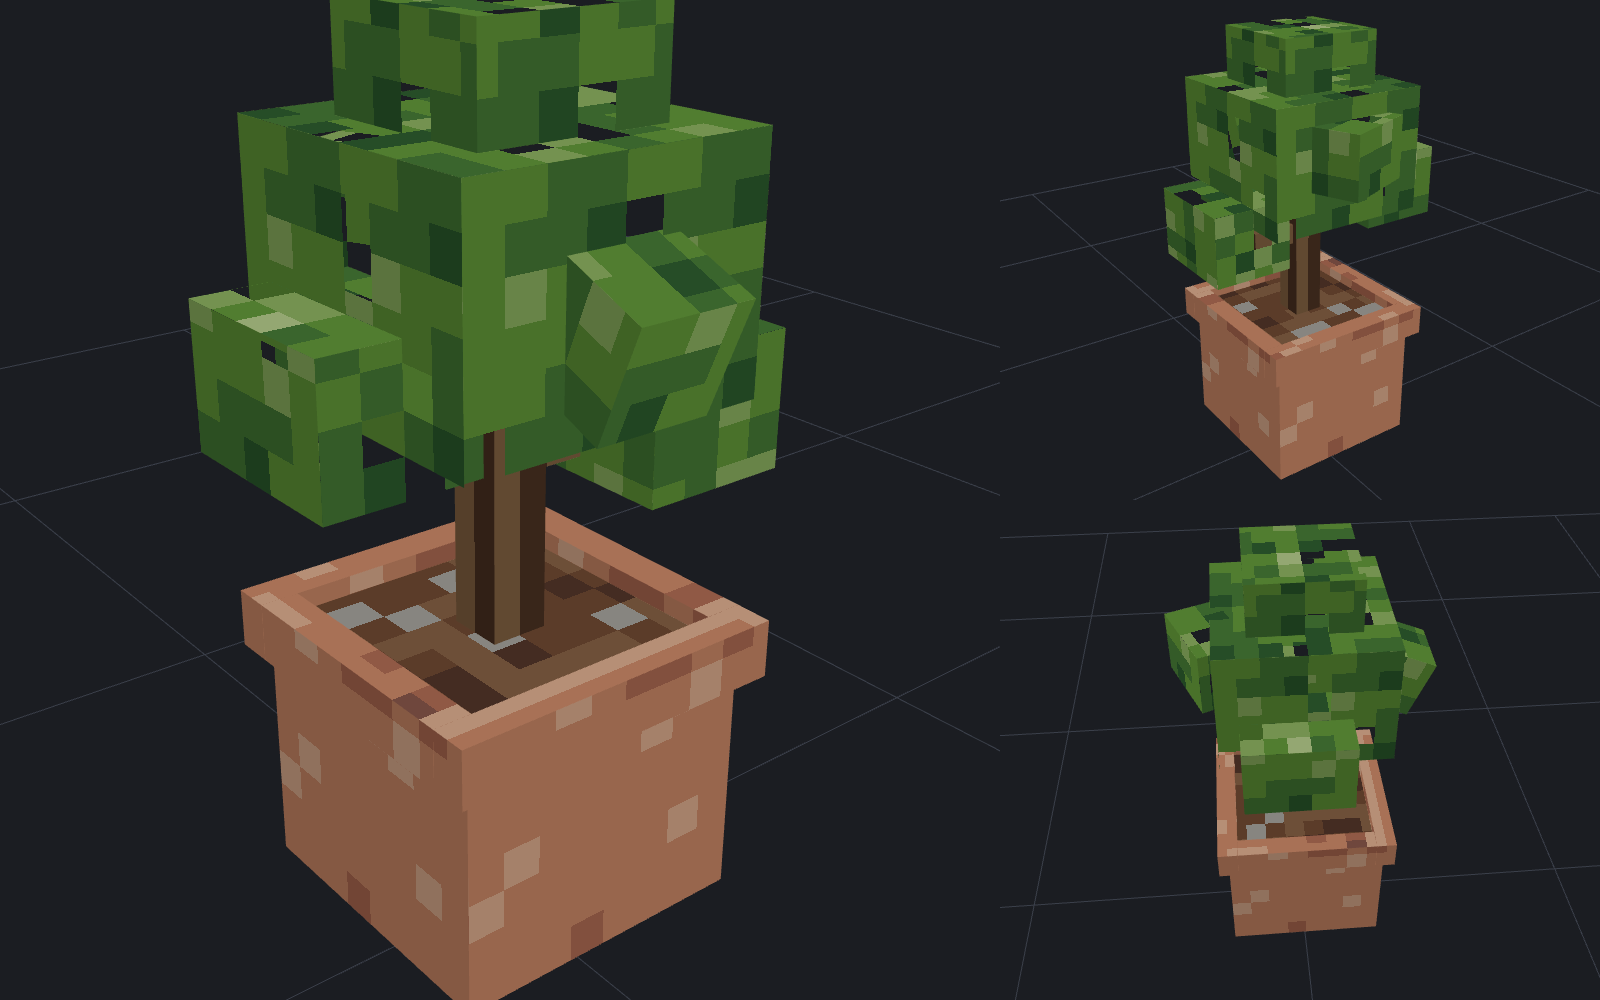
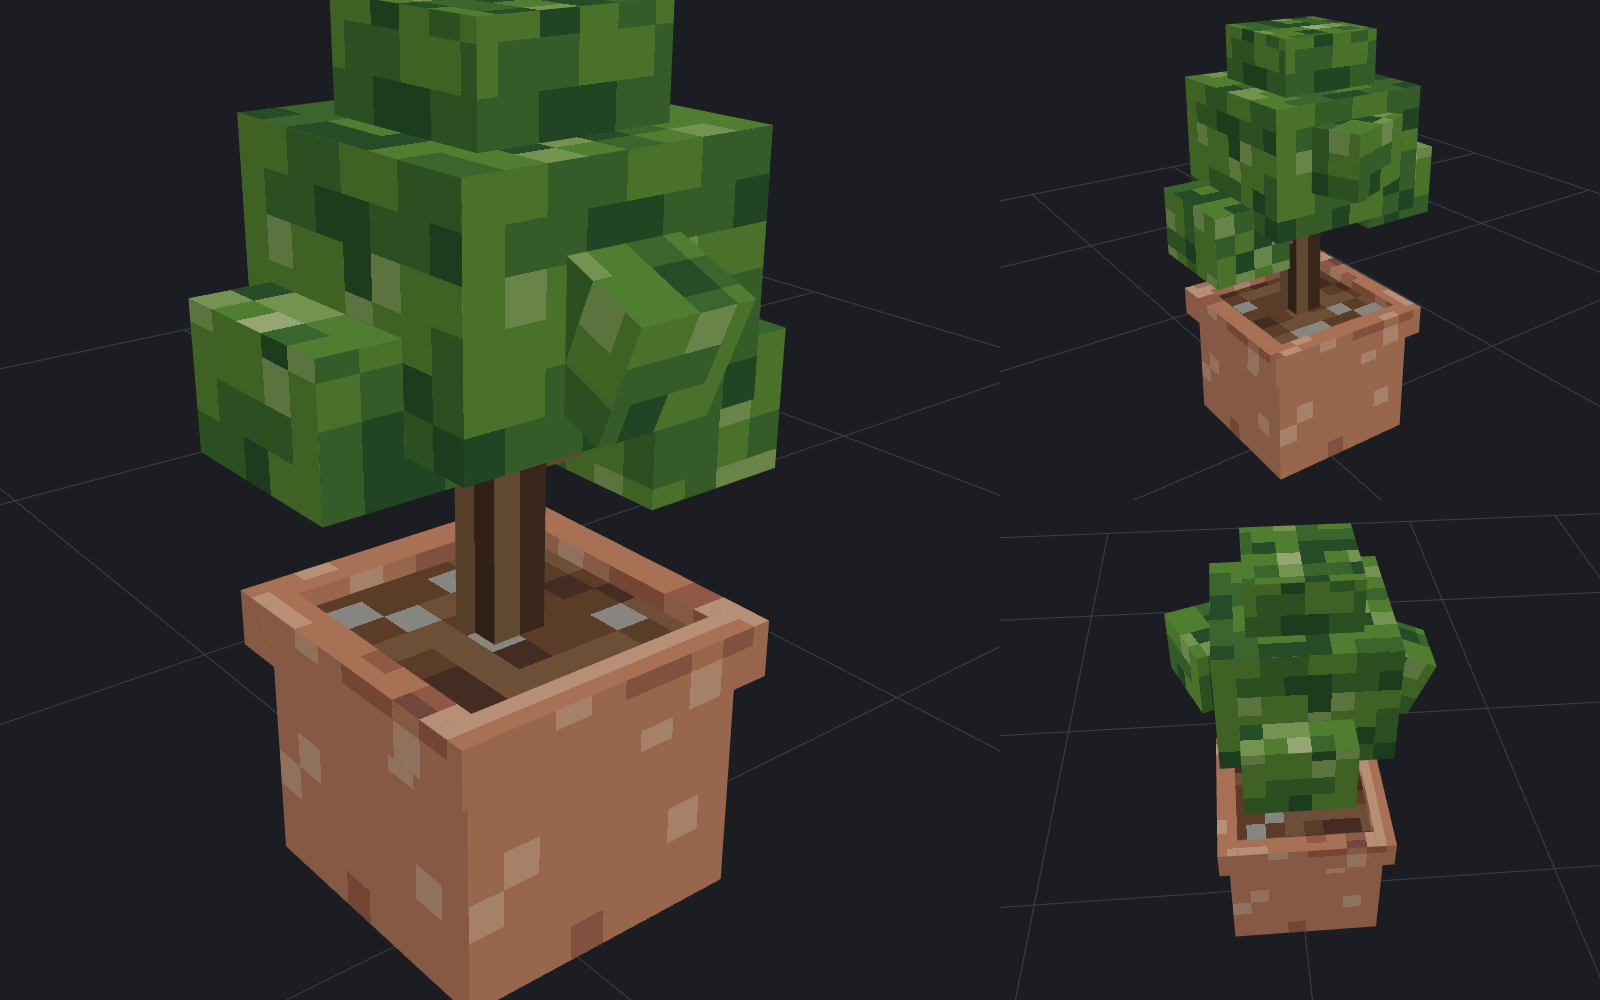
Make leaf texture opaque; forbid see-through textures on solid boxes
In-game report: holes in the potted shrub's crown showed the background
straight through. A leaf crown is a hollow box, so cutout pixels are
see-through holes rather than vanilla-style gaps. Gaps are now painted
with the darkest leaf step, and the model validator rejects textures with
transparent pixels on any element thicker than 0.5. Version 0.1.2.

Claude-Session: https://claude.ai/code/session_01RZiBpXr9dauHCJtPMWBQ4s

diff --git a/tools/assetgen/stsv_assets/textures.py b/tools/assetgen/stsv_assets/textures.py
@@ -258,7 +258,8 @@ def wood_dark(seed=92):
 
 
 def leaves(seed=93):
-    """Clumped leaves with see-through gaps (cutout)."""
+    """Clumped leaves. Opaque: gaps are painted with the darkest step (depth) instead of holes,
+    because a leaf crown is a hollow box and real holes would show straight through it."""
     rnd = random.Random(seed)
     im = _new()
     px = im.load()
@@ -269,7 +270,7 @@ def leaves(seed=93):
             cx, cy = x % 4, y % 4
             i = n - 2 - (cx + cy) // 2
             if rnd.random() < 0.12:
-                px[x, y] = (0, 0, 0, 0)
+                px[x, y] = ramp("leaf", 0)
                 continue
             px[x, y] = ramp("leaf", _j(rnd, i, 0.25))
     return im
@@ -482,6 +483,16 @@ SURFACES = {
 # Textures with lines that must continue from one face to the next (seams, bands).
 # The model validator requires these lines to be mirror-symmetric.
 ALIGNED = {"fabric"}
+
+
+_ALPHA_CACHE = {}
+
+
+def has_transparency(name):
+    if name not in _ALPHA_CACHE:
+        im = SURFACES[name]()
+        _ALPHA_CACHE[name] = any(im.getpixel((x, y))[3] < 255 for y in range(S) for x in range(S))
+    return _ALPHA_CACHE[name]
 
 
 def line_mask(name, im, x, y):

diff --git a/tools/assetgen/stsv_assets/model.py b/tools/assetgen/stsv_assets/model.py
@@ -150,6 +150,15 @@ class Model:
                     if ou > 1e-6 and ov > 1e-6 and self._visible_overlap(plain, e, o, ax, sign, p, a1, a2):
                         problems.append(f"{e['name']} / {o['name']}: '{f}' 면이 같은 위치에 겹침 → 깜빡임")
 
+        # 4) see-through pixels on a solid box show the background straight through the whole part
+        for e in self.elements:
+            thick = min(e["to"][a] - e["from"][a] for a in range(3))
+            for f, t in e["faces"].items():
+                if thick > 0.5 and T.has_transparency(t):
+                    problems.append(f"{e['name']}: 투명 픽셀이 있는 텍스처 '{t}' 를 두께 있는 상자에 사용 → 뒤가 뚫려 보임 "
+                                    "(투명 텍스처는 두께 0.5 이하의 판에만)")
+                    break
+
         # 3) textures whose lines must continue across faces have to be mirror-symmetric,
         #    because auto UV mirrors columns between top and north/east faces
         for t in self.textures_used():

diff --git a/docs/ART_STYLE.md b/docs/ART_STYLE.md
@@ -65,6 +65,7 @@
 |---|---|
 | **뚫린 상자 금지** | 마인크래프트는 면을 바깥쪽에서만 그립니다. 면을 지워서 구멍을 내면 안쪽이 투명하게 보입니다(화분 테두리 버그). 테두리, 굴뚝, 화분처럼 속이 빈 부분은 **벽 4개로** 만듭니다. 면을 지우는 것은 다른 부품이 그 면을 완전히 덮을 때만 허용됩니다. |
 | **겹친 면 금지** | 같은 위치, 같은 방향의 면 두 개가 보이면 게임에서 깜빡입니다(z-fighting). 부품끼리 관통시키지 말고 맞닿게 만듭니다. |
+| **투명 텍스처는 얇은 판에만** | 두께 있는 상자에 투명 픽셀이 있으면 속이 비어 있어서 뒤쪽 풍경이 그대로 비칩니다(관목 구멍 버그). 틈새 표현은 가장 어두운 색으로 칠하고, 진짜 구멍은 두께 0.5 이하의 판에만 씁니다. |
 | **이어지는 무늬는 좌우 대칭** | 자동 UV는 윗면과 북/동쪽 면 사이에서 텍스처를 좌우 반전합니다. 방석 띠처럼 면을 넘어 이어져야 하는 선은 대칭 위치(예: 7~8번 픽셀)에 둡니다. 해당 텍스처는 `textures.ALIGNED`에 등록합니다. |
 
 얇은 옆면에 무늬의 가로줄이 걸리면 `side_v=(시작, 끝)`으로 옆면에 쓸 텍스처 줄을 지정합니다(의자 방석 참고).
